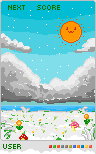
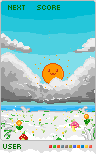
deploy: 2fbde1cb00fdb9881c0b5c3529c76d50bf662e9e

diff --git a/flutter_service_worker.js b/flutter_service_worker.js
@@ -21,7 +21,7 @@ const RESOURCES = {"flutter.js": "76f08d47ff9f5715220992f993002504",
 "assets/assets/fonts/Square-L.ttf": "6a85340d6fed400674984fbd4d9769ae",
 "assets/assets/images/connect_3.png": "87cc59edadb6054c3be194ea929a143d",
 "assets/assets/images/12-icon.png": "a206b1e0ac05dfd3f29d2e6bc9b2fcfc",
-"assets/assets/images/back_background.png": "60e7a473ea6ba848ea81601aa7b4f5f3",
+"assets/assets/images/back_background.png": "148ee905ab9898dbb63be033ec5b16ac",
 "assets/assets/images/empty.png": "65cbc3180b2ea1129110309f25bac1fc",
 "assets/assets/images/explosion.png": "63af14a4e1e4048dd57b4495a95c0d14",
 "assets/assets/images/copyright.png": "b3f9d96d2709388e21d4d14cdcb7e9f1",
@@ -44,7 +44,7 @@ const RESOURCES = {"flutter.js": "76f08d47ff9f5715220992f993002504",
 "assets/assets/images/7-icon.png": "b0f7ab0274ea810791c815ebb78ef045",
 "assets/assets/images/back_foreground.png": "2d1babbf590dc7027584ece0b71fc42f",
 "assets/assets/images/5-icon.png": "dc9faffb05b0be8140cfbcbe90ee7ed3",
-"assets/assets/images/title.png": "2a6a20546707d4099ea8076d5f5d4a50",
+"assets/assets/images/title.png": "61b7199eb29c28fc2de084d93db8f849",
 "assets/assets/images/4-icon.png": "c65661f16b264442988c53f809f04bad",
 "assets/assets/images/6-icon.png": "fbe27b20db4719f13bee635afc8cfe08",
 "assets/assets/images/9-icon.png": "67df1942436c159103002b17782d2191",
@@ -81,7 +81,7 @@ const RESOURCES = {"flutter.js": "76f08d47ff9f5715220992f993002504",
 "icons/Icon-512.png": "96e752610906ba2a93c65f8abe1645f1",
 "favicon.png": "5dcef449791fa27946b3d35ad8803796",
 "version.json": "2009e33ee92575714318bb93c345bb23",
-"flutter_bootstrap.js": "c936d798eaf014b44e4ddd05f0a415e8"};
+"flutter_bootstrap.js": "48a9f41b61daac44cc3edfe0bdd78ad1"};
 // The application shell files that are downloaded before a service worker can
 // start.
 const CORE = ["main.dart.js",

diff --git a/flutter_bootstrap.js b/flutter_bootstrap.js
@@ -11,6 +11,6 @@ _flutter.buildConfig = {"engineRevision":"2ba456fd7fd03d7348f9fa0952493030c85f15
 
 _flutter.loader.load({
   serviceWorkerSettings: {
-    serviceWorkerVersion: "1164082106"
+    serviceWorkerVersion: "904385929"
   }
 });
